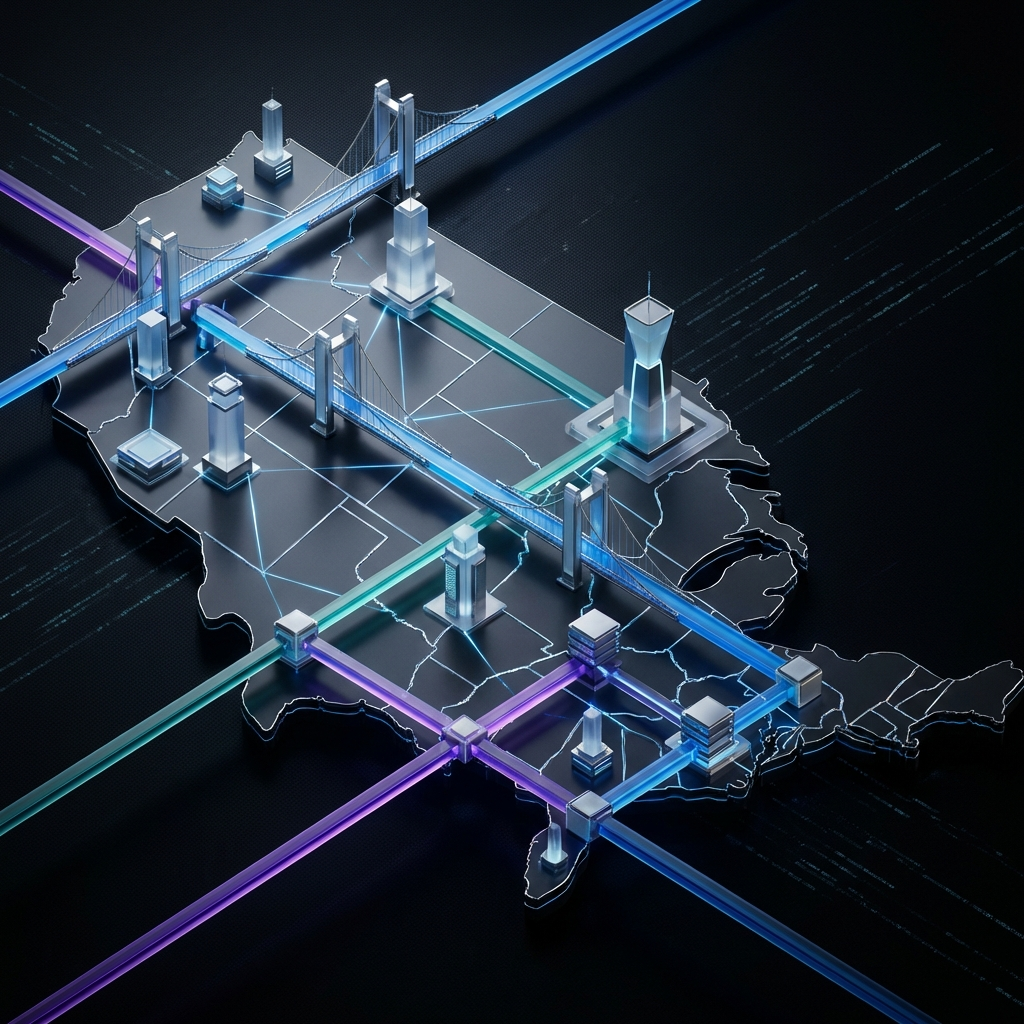
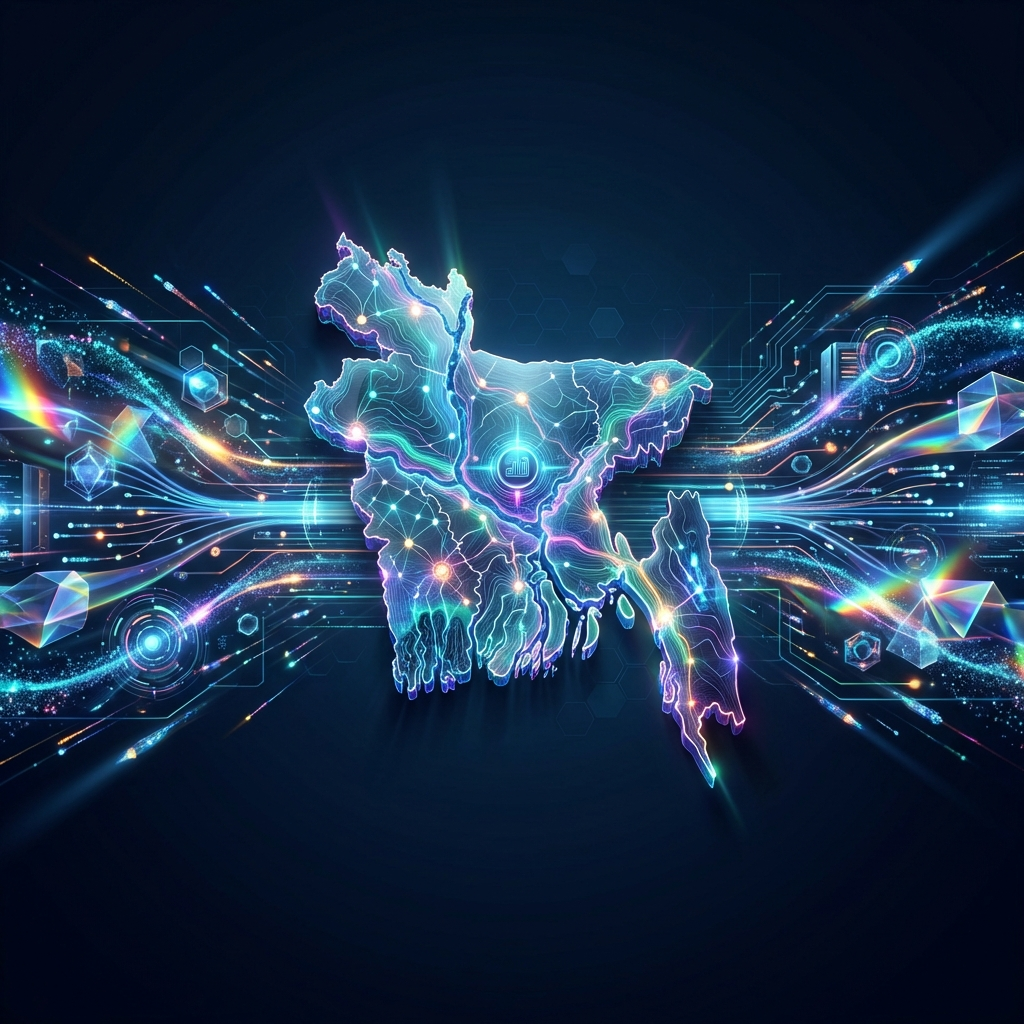
design(hero): implement Bangladesh-specific landscape artwork
- Switched hero artwork to a wide 21:9 landscape format
- Rendered high-end 3D isometric map of Bangladesh with infrastructure nodes
- Optimized container CSS for wide aspect ratio with object-fit: contain
- Synchronized regional context with national-scale resilient systems theme

diff --git a/portfolio/index.html b/portfolio/index.html
@@ -96,7 +96,8 @@
     .hero {
       margin-top: 10px;
       margin-bottom: 40px;
-      padding: 80px 48px;
+      padding: 10px 40px 60px;
+      /* Minimal top space to remove the gap */
       border-radius: var(--radius-lg);
       background: #0F172A;
       /* Deep Base */
@@ -113,25 +114,30 @@
 
     .hero-artwork-container {
       width: 100%;
-      max-width: 900px;
-      margin-bottom: 48px;
+      max-width: 100%;
+      margin-bottom: 20px;
       position: relative;
       z-index: 1;
       display: flex;
       justify-content: center;
+      aspect-ratio: 3 / 1;
+      background: #0F172A;
+      /* Direct color match to eliminate seams */
+      border-radius: var(--radius-lg);
+      overflow: hidden;
     }
 
     .hero-artwork {
       width: 100%;
-      max-width: 800px;
-      height: auto;
+      height: 100%;
+      object-fit: contain;
       border-radius: var(--radius-lg);
-      box-shadow: 0 30px 60px rgba(0, 0, 0, 0.5), 0 0 0 1px rgba(255, 255, 255, 0.1);
-      transition: transform 0.3s ease;
+      filter: drop-shadow(0 20px 40px rgba(0, 0, 0, 0.5));
+      transition: transform 0.5s cubic-bezier(0.34, 1.56, 0.64, 1);
     }
 
     .hero-artwork:hover {
-      transform: translateY(-5px);
+      transform: scale(1.02);
     }
 
     /* Hero Decoration - clean abstract shapes */
